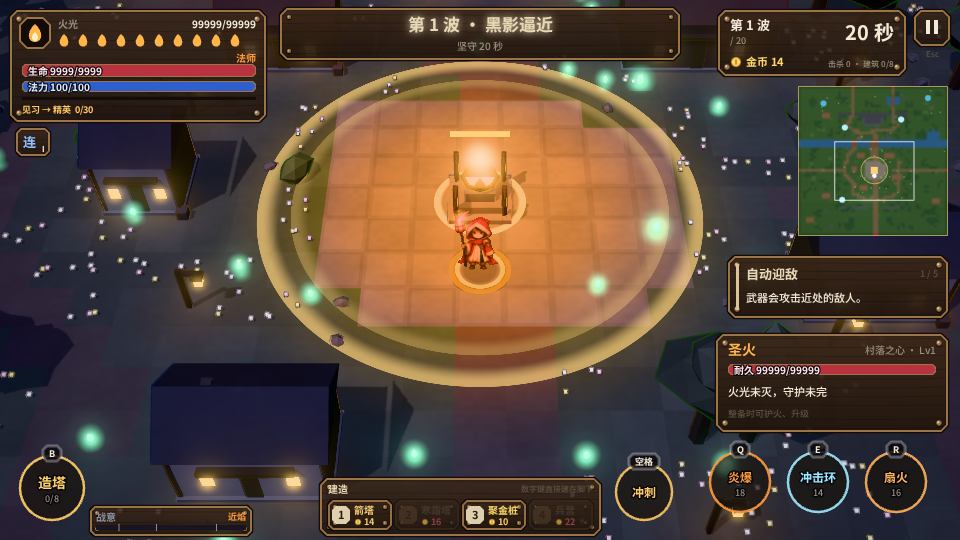
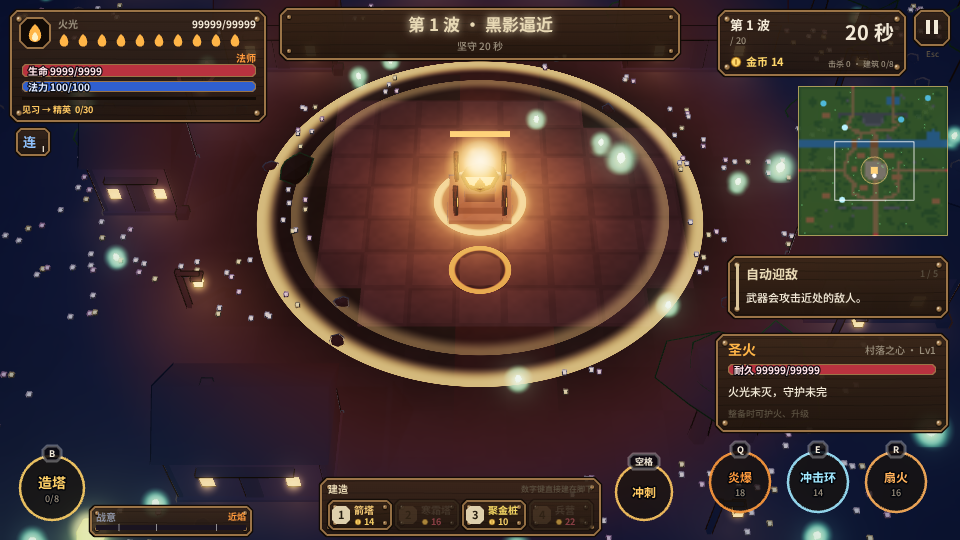
scene: flame is the key light, cool indigo ambient and fog
Exponential amber falloff from the sacred flame, low indigo hemisphere,
warm-near / indigo-far fog, ACES, and stronger cool silhouettes on enemy
sprites outside the circle. Still parameters and shaders only.

diff --git a/js/gl3d.js b/js/gl3d.js
@@ -168,7 +168,7 @@
     //   rim 冷色边缘光 · grad 顶点下暗上亮 · coreLight 圣火暖光圈 · night35 夜晚提亮到白天 35% 的备选预设
     // 默认开着的只有低风险三项：描边（本色压暗）、只给火焰 / 法术 / 敌眼的局部泛光、轻暗角。
     // 浏览器里加 ?art=all 全开，?art=toon,ao 只开其中几项（截图对照用）
-    ART: { aces: false, toon: false, noise: false, ao: false, nightFog: false, rim: false, grad: false, coreLight: false, night35: false },
+    ART: { aces: true, toon: false, noise: false, ao: false, nightFog: false, rim: false, grad: false, coreLight: false, night35: false },
     meshes: [], statics: [],
     // 每帧渲染前 / 后的回调（精灵图层在这里提交实例、清空计数）
     preRender: [], postRender: []
@@ -183,28 +183,39 @@
     uTime: { value: 0 }, uEmBoost: { value: 1 }, uGrade: { value: null }, uLineW: { value: 1.2 }, uLineWB: { value: 0.9 },
     uRim: { value: null }, uNoise: { value: 0.12 }, uCore: { value: null }, uCoreCol: { value: null },
     uFogLow: { value: null }, uEmHDR: { value: 2.2 }, uGradK: { value: 0 }, uFogPierce: { value: 0 },
-    // C1 色温过渡（参数在 RW.C1_LIGHT）：uBand = (inner, outer, 暖饱和, 冷饱和)，uGain = (暖明度, 冷明度)
-    uBand: { value: new THREE.Vector4(0.42, 1.32, 0.8, 0.2) }, uGain: { value: new THREE.Vector2(1.04, 0.64) },
-    uWarm: { value: new THREE.Vector3(1.48, 0.72, 0.36) }, uCool: { value: new THREE.Vector3(0.40, 0.48, 1.12) },
-    uWarmAdd: { value: 0.14 }, uChill: { value: 0 }
+    // C1（参数在 RW.C1_LIGHT）。uBand=(inner, outer, 圈内饱和, 圈外饱和)，uGain=(圈内明度, 圈外明度)
+    // uGreen=(圈内去柠绿, 圈外去柠绿)，uCool=圈外冷蓝（g 不高于 r），uWarmAdd=圣火强度，uFall=指数陡度
+    uBand: { value: new THREE.Vector4(0.2, 1.7, 1.12, 0.06) }, uGain: { value: new THREE.Vector2(0.74, 0.62) },
+    uCool: { value: new THREE.Vector3(0.46, 0.40, 1.06) }, uGreen: { value: new THREE.Vector2(0.78, 0.25) },
+    uWarmAdd: { value: 1.25 }, uFall: { value: 1.4 }, uChill: { value: 0 },
+    uFogWarm: { value: new THREE.Vector3(1.0, 0.45, 0.12) }, uFogK: { value: new THREE.Vector3(0.78, 1.05, 0.42) },
+    uEnemyGain: { value: 0.42 }
   };
-  // 固有色按离圣火的距离从暖色收到冷靛蓝。宽 smoothstep，不在半径上切一刀。
+  // 固有色随距离收向去饱和冷蓝。圈内只压暗并杀掉亮柠绿，留下更深的绿褐，饱和不降。宽 smoothstep。
   var C1_ALBEDO = [
     '{',
     '  float fgCd = length(vWp.xz - uCore.xy);',
     '  float fgR = max(uCore.z, 1.0);',
-    '  float fgT = uCore.z < 2.0 ? mix(0.35, 0.85, uChill) : smoothstep(fgR * uBand.x, fgR * uBand.y, fgCd);',
+    '  float fgT = uCore.z < 2.0 ? mix(0.2, 0.85, uChill) : smoothstep(fgR * uBand.x, fgR * uBand.y, fgCd);',
     '  float fgL = dot(diffuseColor.rgb, vec3(0.2126, 0.7152, 0.0722));',
-    '  diffuseColor.rgb = mix(vec3(fgL), diffuseColor.rgb, mix(uBand.z, uBand.w, fgT)) * mix(uWarm, uCool, fgT) * mix(uGain.x, uGain.y, fgT);',
+    '  vec3 fgB = diffuseColor.rgb;',
+    '  fgB.g = mix(fgB.g, min(fgB.g, fgB.r * 0.72 + fgL * 0.06), mix(uGreen.x, uGreen.y, fgT));',
+    '  vec3 fgIn = mix(vec3(fgL), fgB, mix(uBand.z, uBand.w, fgT));',
+    '  diffuseColor.rgb = mix(fgIn, fgL * uCool, fgT) * mix(uGain.x, uGain.y, fgT);',
+    '  if (uEnemy > 0.5) {',
+    '    float fgS = smoothstep(fgR * 0.45, fgR * 1.55, fgCd);',
+    '    float fgLe = dot(diffuseColor.rgb, vec3(0.2126, 0.7152, 0.0722));',
+    '    diffuseColor.rgb = mix(diffuseColor.rgb, fgLe * uCool * uEnemyGain, fgS);',
+    '  }',
     '}'
   ].join('\n');
-  // 同一条过渡带上的暖色补光（没有 6% 硬边）。ART.coreLight 的旧硬光圈仍走 uCore.w，默认关。
+  // 圣火主光：指数衰减，中心最暖，远处剩一条软尾巴，不在半径上切断。
   var C1_FILL = [
     '{',
-    '  float fgCd2 = length(vWp.xz - uCore.xy);',
+    '  float fgD = length(vWp.xz - uCore.xy);',
     '  float fgR2 = max(uCore.z, 1.0);',
-    '  float fgT2 = uCore.z < 2.0 ? 1.0 : smoothstep(fgR2 * uBand.x, fgR2 * uBand.y, fgCd2);',
-    '  reflectedLight.directDiffuse += diffuseColor.rgb * uCoreCol * uWarmAdd * (1.0 - fgT2);',
+    '  float fgE = uCore.z < 2.0 ? 0.0 : exp(-uFall * fgD / fgR2);',
+    '  reflectedLight.directDiffuse += diffuseColor.rgb * uCoreCol * uWarmAdd * fgE;',
     '}'
   ].join('\n');
   // 3 格渐变：暗面 / 中间调 / 亮面（最近邻采样，形成清楚的色阶）
@@ -222,7 +233,8 @@
   // sprite = true 是贴图立牌（精灵图）：没有顶点色和 aEm，颜色来自图集贴图；每实例 iFrame 选图集里的一格
   //   （iFrame = [u0, v0, u 宽（负数 = 水平镜像）, v 高]）；不加斑驳和顶点渐变，画好的画面不再叠笔触
   function fgInject(sh, water, sprite) {
-    ['uTime', 'uEmBoost', 'uRim', 'uNoise', 'uCore', 'uCoreCol', 'uFogLow', 'uEmHDR', 'uGradK', 'uFogPierce', 'uBand', 'uGain', 'uWarm', 'uCool', 'uWarmAdd', 'uChill'].forEach(function (k) { sh.uniforms[k] = U[k]; });
+    ['uTime', 'uEmBoost', 'uRim', 'uNoise', 'uCore', 'uCoreCol', 'uFogLow', 'uEmHDR', 'uGradK', 'uFogPierce', 'uBand', 'uGain', 'uCool', 'uGreen', 'uWarmAdd', 'uFall', 'uChill', 'uFogWarm', 'uFogK', 'uEnemyGain'].forEach(function (k) { sh.uniforms[k] = U[k]; });
+    sh.uniforms.uEnemy = { value: sprite === 'enemy' ? 1.0 : 0.0 };
     sh.vertexShader = sh.vertexShader
       .replace('#include <common>', '#include <common>\n' + (sprite ? 'attribute vec4 iFrame;\n' : 'attribute float aEm;\n') + 'varying float vEm;\nvarying float vFlash;\nvarying vec3 vWp;\nvarying float vGrad;\nuniform float uTime;\nuniform float uGradK;\n#ifdef USE_INSTANCING\nattribute float iFlash;\n#endif')
       .replace('#include <begin_vertex>', '#include <begin_vertex>\n' + (sprite ? 'vEm = 0.0;\nvGrad = 1.0;\n' : 'vEm = aEm;\n' +
@@ -233,7 +245,7 @@
       .replace('#include <worldpos_vertex>', '#include <worldpos_vertex>\nvec4 fgW = vec4(transformed, 1.0);\n#ifdef USE_INSTANCING\nfgW = instanceMatrix * fgW;\n#endif\nvWp = (modelMatrix * fgW).xyz;');
     if (sprite) sh.vertexShader = sh.vertexShader.replace('#include <uv_vertex>', '#include <uv_vertex>\n#ifdef USE_MAP\nvMapUv = vec2(iFrame.x + uv.x * iFrame.z, iFrame.y + uv.y * iFrame.w);\n#endif');
     sh.fragmentShader = sh.fragmentShader
-      .replace('#include <common>', '#include <common>\nvarying float vEm;\nvarying float vFlash;\nvarying vec3 vWp;\nvarying float vGrad;\nuniform float uTime;\nuniform float uEmBoost;\nuniform vec4 uRim;\nuniform float uNoise;\nuniform vec4 uCore;\nuniform vec3 uCoreCol;\nuniform vec4 uFogLow;\nuniform float uEmHDR;\nuniform float uFogPierce;\nuniform vec4 uBand;\nuniform vec2 uGain;\nuniform vec3 uWarm;\nuniform vec3 uCool;\nuniform float uWarmAdd;\nuniform float uChill;\n' + NOISE_GLSL)
+      .replace('#include <common>', '#include <common>\nvarying float vEm;\nvarying float vFlash;\nvarying vec3 vWp;\nvarying float vGrad;\nuniform float uTime;\nuniform float uEmBoost;\nuniform vec4 uRim;\nuniform float uNoise;\nuniform vec4 uCore;\nuniform vec3 uCoreCol;\nuniform vec4 uFogLow;\nuniform float uEmHDR;\nuniform float uFogPierce;\nuniform vec4 uBand;\nuniform vec2 uGain;\nuniform vec3 uCool;\nuniform vec2 uGreen;\nuniform float uWarmAdd;\nuniform float uFall;\nuniform float uChill;\nuniform vec3 uFogWarm;\nuniform vec3 uFogK;\nuniform float uEnemy;\nuniform float uEnemyGain;\n' + NOISE_GLSL)
       .replace('#include <lights_fragment_end>', '#include <lights_fragment_end>\n' +
         // 圣火暖光圈：圈内是暖光，边缘在最后 6% 半径内收掉，圈外全交给冷色环境光
         '{ float cd = length(vWp.xz - uCore.xy);\n  float cm = uCore.w * (1.0 - smoothstep(uCore.z * 0.94, uCore.z, cd)) * (0.55 + 0.45 * (1.0 - cd / max(uCore.z, 1.0)));\n  reflectedLight.directDiffuse += diffuseColor.rgb * uCoreCol * cm; }\n' +
@@ -246,8 +258,11 @@
         '#ifdef USE_FOG',
         '  float fgF = smoothstep(fogNear, fogFar, vFogDepth);',
         '  float fgLow = uFogLow.x * (1.0 - smoothstep(0.0, uFogLow.y, vWp.y)) * smoothstep(uFogLow.z, uFogLow.w, length(vWp.xz - uCore.xy));',
-        '  fgF = clamp(fgF + fgLow, 0.0, 1.0) * (1.0 - uFogPierce * clamp(vEm * 1.6, 0.0, 0.92));',
-        '  gl_FragColor.rgb = mix(gl_FragColor.rgb, fogColor, fgF);',
+        '  float fgRd = max(uCore.z, 1.0);',
+        '  float fgOut = uCore.z < 2.0 ? uChill : smoothstep(fgRd * uFogK.x, fgRd * (uFogK.x + uFogK.y), length(vWp.xz - uCore.xy));',
+        '  vec3 fgFog = mix(uFogWarm, fogColor, fgOut);',
+        '  fgF = clamp(fgF * mix(0.28, 1.0, fgOut) + fgLow + fgOut * uFogK.z, 0.0, 0.9) * (1.0 - uFogPierce * clamp(vEm * 1.6, 0.0, 0.92));',
+        '  gl_FragColor.rgb = mix(gl_FragColor.rgb, fgFog, fgF);',
         '#endif'
       ].join('\n'));
     if (sprite) {
@@ -284,9 +299,10 @@
     tex.colorSpace = THREE.SRGBColorSpace;
     return tex;
   };
-  GL.spriteMaterial = function (tex) {
+  // enemy：敌人立牌。圈外再收成冷色剪影；英雄和盾卫不走这一档。
+  GL.spriteMaterial = function (tex, enemy) {
     var m = new THREE.MeshLambertMaterial({ map: tex, alphaTest: 0.5, transparent: false, side: THREE.DoubleSide });
-    m.onBeforeCompile = function (sh) { fgInject(sh, false, true); };
+    m.onBeforeCompile = function (sh) { fgInject(sh, false, enemy ? 'enemy' : true); };
     return m;
   };
   // 描边：背面外壳，沿平滑法线外扩（外扩量随离镜头距离变化，屏幕上粗细基本一致）
@@ -409,7 +425,7 @@
     tmpC = new THREE.Color();
     r.setPixelRatio(1);   // 画布尺寸由 platform.js 按设备像素比设置好了
     r.outputColorSpace = THREE.SRGBColorSpace;
-    r.toneMapping = THREE.NeutralToneMapping; r.toneMappingExposure = 1.0;   // 默认沿用原版；ART.aces 打开时换 ACES
+    r.toneMapping = THREE.ACESFilmicToneMapping; r.toneMappingExposure = 1.06;
     r.shadowMap.enabled = true; r.shadowMap.type = THREE.PCFShadowMap;   // r18x 起 PCFSoftShadowMap 已移除（会报警告），PCFShadowMap 本身已是柔化过滤
     var sc = GL.scene = new THREE.Scene();
     sc.fog = new THREE.Fog(0x7a5f80, 1300, 3000);
@@ -451,17 +467,29 @@
     comp.addPass(GL.bloomPass);
     U.uGrade.value = new THREE.Vector4(1, 1, 0, 0);
     GL.gradePass = new THREE.ShaderPass({
-      uniforms: { tDiffuse: { value: null }, uGrade: U.uGrade, uVig: { value: 0.22 } },
+      uniforms: {
+        tDiffuse: { value: null }, uGrade: U.uGrade, uVig: { value: 0.22 },
+        uSplit: { value: new THREE.Vector2(0.62, 0.4) },
+        uShad: { value: new THREE.Vector3(0.10, 0.08, 0.26) },
+        uHigh: { value: new THREE.Vector3(1.12, 0.58, 0.16) }
+      },
       vertexShader: 'varying vec2 vUv; void main(){ vUv = uv; gl_Position = projectionMatrix * modelViewMatrix * vec4(position, 1.0); }',
       fragmentShader: [
         'uniform sampler2D tDiffuse; uniform vec4 uGrade; uniform float uVig; varying vec2 vUv;',
+        'uniform vec2 uSplit; uniform vec3 uShad; uniform vec3 uHigh;',
         'void main(){',
         '  vec4 c = texture2D(tDiffuse, vUv);',
         '  float l = dot(c.rgb, vec3(0.2126, 0.7152, 0.0722));',
         '  c.rgb = mix(vec3(l), c.rgb, uGrade.x);',
-        '  c.rgb = max(vec3(0.0), (c.rgb - 0.18) * uGrade.y + 0.18 + uGrade.w);',   // 以中灰为支点做对比度
+        '  c.rgb = max(vec3(0.0), (c.rgb - 0.18) * uGrade.y + 0.18 + uGrade.w);',
+        '  float sh = 1.0 - smoothstep(0.03, 0.46, l);',
+        '  float hi = smoothstep(0.4, 0.9, l);',
+        '  vec3 shCol = mix(c.rgb, uShad * max(l, 0.015), 0.9);',
+        '  shCol.g = min(shCol.g, shCol.r * 0.9);',
+        '  c.rgb = mix(c.rgb, shCol, sh * uSplit.x);',
+        '  c.rgb = mix(c.rgb, c.rgb * uHigh, hi * uSplit.y);',
         '  vec2 vd = (vUv - 0.5) * vec2(1.0, 0.78);',
-        '  c.rgb *= 1.0 - uVig * smoothstep(0.28, 0.62, length(vd));',   // 轻微暗角，把视线收向画面中间
+        '  c.rgb *= 1.0 - uVig * smoothstep(0.28, 0.62, length(vd));',
         '  gl_FragColor = c;',
         '}'
       ].join('\n')
@@ -693,16 +721,31 @@
     U.uRim.value.set(rim[0], rim[1], rim[2], A.rim ? rim[3] : 0);
     var cl = env.coreLight;
     if (cl) U.uCore.value.set(cl.x, cl.z, cl.r, A.coreLight ? cl.k : 0); else U.uCore.value.w = 0;
-    // C1：按 chill 在白天端和夜晚端之间混合。参数只写在 RW.C1_LIGHT。
+    // C1：圣火指数主光、圈外冷蓝、近暖远靛的雾。参数只写在 RW.C1_LIGHT。chill 0 白天 … 1 夜晚。
     var C1 = RW.C1_LIGHT, ck = env.chill || 0;
     if (C1) {
-      var dC = C1.day, nC = C1.night, wC = C1.warm;
-      U.uBand.value.set(C1.inner, C1.outer, wC.sat, dC.sat + (nC.sat - dC.sat) * ck);
-      U.uGain.value.set(wC.gain, dC.gain + (nC.gain - dC.gain) * ck);
-      U.uWarm.value.set(wC.tint[0], wC.tint[1], wC.tint[2]);
-      U.uCool.value.set(dC.tint[0] + (nC.tint[0] - dC.tint[0]) * ck, dC.tint[1] + (nC.tint[1] - dC.tint[1]) * ck, dC.tint[2] + (nC.tint[2] - dC.tint[2]) * ck);
-      U.uWarmAdd.value = dC.add + (nC.add - dC.add) * ck;
+      var al = C1.albedo, fl = C1.flame, fg = C1.fog, gr = C1.grade;
+      function c1l(a) { return a[0] + (a[1] - a[0]) * ck; }
+      U.uBand.value.set(C1.band.inner, C1.band.outer, al.inSat, al.outSat);
+      U.uGain.value.set(al.inGain, c1l(al.outGain));
+      U.uGreen.value.set(al.greenKill[0], al.greenKill[1]);
+      U.uCool.value.set(C1.cool[0], C1.cool[1], C1.cool[2]);
+      U.uFall.value = fl.fall;
+      U.uWarmAdd.value = c1l(fl.gain);
       U.uChill.value = ck;
+      U.uEnemyGain.value = C1.enemy.gain;
+      U.uCoreCol.value.setRGB(fl.color[0], fl.color[1], fl.color[2], THREE.SRGBColorSpace);
+      var fw = fg.warm;
+      tmpC.setRGB(fw[0], fw[1], fw[2], THREE.SRGBColorSpace);
+      U.uFogWarm.value.set(tmpC.r, tmpC.g, tmpC.b);
+      U.uFogK.value.set(fg.start, fg.thick, c1l(fg.amount));
+      var gp = GL.gradePass.uniforms;
+      gp.uSplit.value.set(gr.shadow, gr.high);
+      gp.uShad.value.set(gr.shad[0], gr.shad[1], gr.shad[2]);
+      gp.uHigh.value.set(gr.highCol[0], gr.highCol[1], gr.highCol[2]);
+      GL.renderer.toneMappingExposure = C1.exposure;
+      GL.bloomPass.threshold = C1.bloom.thr;
+      GL.bloomPass.radius = C1.bloom.radius;
     }
     // 低矮冷雾从光圈边缘往外 fogLow[2] 距离内渐浓
     var fl = env.fogLow || [0, 40, 360], r0 = cl ? cl.r : 600;
@@ -713,7 +756,9 @@
     GL.gradePass.uniforms.uVig.value = env.vig == null ? 0.22 : env.vig;
     // 泛光：阈值固定在 HDR 1.05，普通受光表面不发光，只有自发光和法术光效会晕开
     GL.bloomPass.enabled = GL.fx.bloom;
-    GL.bloomPass.strength = Math.min(0.9, (env.bloom || 0) * 0.9); GL.bloomPass.threshold = GL.BLOOM_THR; GL.bloomPass.radius = 0.45;
+    var bloomAdd = (C1 && C1.bloom) ? C1.bloom.add : 0;
+    GL.bloomPass.strength = Math.min(0.55, (env.bloom || 0) * 0.4 + bloomAdd);
+    if (!(C1 && C1.bloom)) { GL.bloomPass.threshold = GL.BLOOM_THR; GL.bloomPass.radius = 0.45; }
     commitInstances();
     commitFx(GL.fxAlphaMesh); commitFx(GL.fxAddMesh);
     var i;

diff --git a/js/world3d.js b/js/world3d.js
@@ -526,20 +526,20 @@
     // rim = 冷色边缘光 [r, g, b, 强度]；fogLow = 光圈外低矮冷雾 [浓度, 高度, 从光圈边缘到最浓的距离]；vig = 暗角；
     // amb = 环境与主光亮度倍率；chill = C1 冷暖混合（0 白天端，1 夜晚端，见 RW.C1_LIGHT）；a35 = 夜晚提亮到白天 35% 的备选颜色
     var P = {
-      day: { light: [-0.45, 0.82, 0.36], sun: hex('#ffe4c0'), sky: shade(hex('#8eabcc'), 0.5), ground: shade(hex('#3d4a62'), 0.55), fog: hex('#7d94b0'), clear: hex('#6d86a6'), fogNear: 1050, fogFar: 2500, em: 1.0, lamp: 0.15,
-        grade: [0.94, 1.04, 0.1, -0.012], shadowDark: 0.42, line: hex('#2a2230'), bloom: 0.35, thr: 0.9,
-        rim: [0.37, 0.66, 0.78, 0.12], fogLow: [0, 40, 360], vig: 0.22, amb: 0.86, chill: 0 },
-      dusk: { light: [-0.7, 0.55, 0.3], sun: shade(hex('#ffae6a'), 0.95), sky: shade(hex('#6a6890'), 0.48), ground: shade(hex('#3a3548'), 0.5), fog: hex('#5a6078'), clear: hex('#3e455c'), fogNear: 980, fogFar: 2300, em: 1.2, lamp: 0.6,
-        grade: [0.9, 1.05, 0.16, -0.012], shadowDark: 0.4, line: hex('#24162a'), bloom: 0.6, thr: 0.78,
-        rim: [0.45, 0.6, 0.85, 0.2], fogLow: [0.25, 36, 420], vig: 0.24, amb: 0.82, chill: 0.45 },
-      night: { light: [-0.35, 0.8, 0.45], sun: shade(hex('#7a92d8'), 0.34), sky: shade(hex('#243860'), 0.5), ground: shade(hex('#121624'), 0.45), fog: hex('#141c32'), clear: hex('#0c1424'), fogNear: 900, fogFar: 2100, em: 1.5, lamp: 1.0,
-        grade: [0.8, 1.08, 0.2, -0.02], shadowDark: 0.5, line: hex('#0a0c16'), bloom: 0.95, thr: 0.62,
-        rim: [0.37, 0.66, 0.78, 0.32], fogLow: [0.55, 34, 380], vig: 0.32, amb: 0.78, chill: 1,
+      day: { light: [-0.45, 0.82, 0.36], sun: shade(hex('#a8c0e8'), 0.38), sky: shade(hex('#9ec0ff'), 0.4), ground: shade(hex('#161432'), 0.6), fog: hex('#3a4e84'), clear: hex('#4a6298'), fogNear: 1700, fogFar: 2700, em: 1.0, lamp: 0.15,
+        grade: [1.02, 1.04, 0.06, 0.0], shadowDark: 0.28, line: hex('#1a1830'), bloom: 0.35, thr: 0.9,
+        rim: [0.37, 0.66, 0.78, 0.12], fogLow: [0, 40, 360], vig: 0.18, amb: 0.46, chill: 0 },
+      dusk: { light: [-0.7, 0.55, 0.3], sun: shade(hex('#8aa0d0'), 0.32), sky: shade(hex('#6070b0'), 0.38), ground: shade(hex('#141228'), 0.55), fog: hex('#2a3868'), clear: hex('#323e6c'), fogNear: 1500, fogFar: 2400, em: 1.2, lamp: 0.6,
+        grade: [0.98, 1.05, 0.1, -0.01], shadowDark: 0.26, line: hex('#161428'), bloom: 0.6, thr: 0.78,
+        rim: [0.45, 0.6, 0.85, 0.2], fogLow: [0.25, 36, 420], vig: 0.22, amb: 0.34, chill: 0.45 },
+      night: { light: [-0.35, 0.8, 0.45], sun: shade(hex('#6880c0'), 0.26), sky: shade(hex('#3a58a0'), 0.32), ground: shade(hex('#100e22'), 0.5), fog: hex('#1c2a56'), clear: hex('#10162c'), fogNear: 1300, fogFar: 2100, em: 1.5, lamp: 1.0,
+        grade: [0.92, 1.06, 0.12, -0.01], shadowDark: 0.22, line: hex('#0c0e18'), bloom: 0.95, thr: 0.62,
+        rim: [0.37, 0.66, 0.78, 0.32], fogLow: [0.55, 34, 380], vig: 0.28, amb: 0.24, chill: 1,
         // 备选（GL.ART.night35）：夜晚光圈外亮度约为白天 35% 的提亮版
         a35: { sun: shade(hex('#8aa4ff'), 0.72), sky: shade(hex('#5a74b8'), 0.8), ground: shade(hex('#2a2c48'), 0.6), fog: hex('#34497a'), clear: hex('#141e36') } },
-      boss: { light: [-0.5, 0.7, 0.4], sun: shade(hex('#ff9a7a'), 0.7), sky: shade(hex('#5a3058'), 0.5), ground: shade(hex('#241820'), 0.45), fog: hex('#2a1828'), clear: hex('#160c16'), fogNear: 980, fogFar: 2200, em: 1.4, lamp: 0.9,
-        grade: [0.9, 1.08, 0.22, -0.01], shadowDark: 0.45, line: hex('#12060a'), bloom: 0.85, thr: 0.66,
-        rim: [0.55, 0.35, 0.75, 0.3], fogLow: [0.5, 34, 380], vig: 0.3, amb: 0.85, chill: 0.72,
+      boss: { light: [-0.5, 0.7, 0.4], sun: shade(hex('#8090c8'), 0.3), sky: shade(hex('#503868'), 0.4), ground: shade(hex('#1a1020'), 0.5), fog: hex('#2a2048'), clear: hex('#1a1430'), fogNear: 1400, fogFar: 2200, em: 1.4, lamp: 0.9,
+        grade: [0.96, 1.06, 0.12, -0.008], shadowDark: 0.24, line: hex('#12060a'), bloom: 0.85, thr: 0.66,
+        rim: [0.55, 0.35, 0.75, 0.3], fogLow: [0.5, 34, 380], vig: 0.26, amb: 0.3, chill: 0.72,
         a35: { sun: shade(hex('#ff9a7a'), 0.7), sky: shade(hex('#7a4070'), 0.8), ground: shade(hex('#3a1c28'), 0.6), fog: hex('#4a2038'), clear: hex('#200a14'), amb: 1 } }
     };
     var e = P[kind];

diff --git a/js/data.js b/js/data.js
@@ -372,19 +372,24 @@
     skyRange: 99999,
     dim: 0.32
   };
-  // C1「光即是色」（概念 mj_style_C1.png）。场景冷暖只调这一处：圈内橙金 / 琥珀，圈外冷靛蓝，宽而软的过渡。
-  // inner / outer 是圣域半径的倍数：inner 以内全暖，outer 以外全冷，中间 smoothstep，没有硬边。
-  // tint 乘在部分去饱和后的固有色上（线性空间）。sat：1 保留原饱和，0 变成灰。gain：明度。
-  // add：同一条过渡带上额外的暖色照明，夜里更强。昼夜预设的 chill（0 白天 … 1 夜晚）在两端之间混合。
-  // veil：圣域外旧的黑色压暗叠层，改得很淡，避免再切出一圈硬边；冷暖本身在着色器里。
-  // 地形、房屋、树和手绘精灵走同一条着色器（js/gl3d.js）。不改玩法数值。
+  // C1「光即是色」。冷暖只调这一处，着色器在 js/gl3d.js。不改玩法、镜头、视野。
+  // 圣火是唯一主光：约 2300K 琥珀（sRGB），按距离做指数衰减，没有光锥硬边。
+  // 环境光压得很低，只留阴影层次，颜色是约 10000K 的靛蓝（绿通道不高于红）。
+  // band：固有色从「圈内更深的绿褐、饱和」收到「圈外近乎单色的冷蓝」。inner/outer 是圣域半径的倍数，smoothstep，很宽。
+  // greenKill：圈内把过亮的绿草收到褐绿。fog 在圈边才开始变浓，近火是暖雾，远处是深靛蓝。
+  // enemy：圈外的敌人立牌再压暗、去饱和。bloom 用已经在跑的泛光通道，阈值放低、强度很小，只晕开火。
+  // veil：旧的圣域黑盘，关掉，避免再切出一圈硬边。
   RW.C1_LIGHT = {
-    inner: 0.42,
-    outer: 1.32,
-    warm: { tint: [1.48, 0.72, 0.36], sat: 0.8, gain: 1.04 },
-    day:   { tint: [0.40, 0.48, 1.12], sat: 0.2, gain: 0.64, add: 0.14 },
-    night: { tint: [0.28, 0.36, 1.02], sat: 0.12, gain: 0.40, add: 0.40 },
-    veil: 0.04
+    flame: { color: [1.0, 0.545, 0.165], fall: 1.4, gain: [1.25, 1.85] },
+    band: { inner: 0.2, outer: 1.7 },
+    albedo: { inSat: 1.12, outSat: 0.06, inGain: 0.74, outGain: [0.62, 0.46], greenKill: [0.78, 0.25] },
+    cool: [0.46, 0.40, 1.06],
+    fog: { warm: [1.0, 0.50, 0.16], start: 0.78, thick: 1.05, amount: [0.42, 0.58] },
+    grade: { shadow: 0.62, high: 0.4, shad: [0.10, 0.08, 0.26], highCol: [1.12, 0.58, 0.16] },
+    enemy: { gain: 0.42 },
+    bloom: { thr: 0.64, radius: 0.62, add: 0.1 },
+    exposure: 1.06,
+    veil: 0
   };
   RW.SANCTUARY.dim = RW.C1_LIGHT.veil;
   // 圣火每升一级，王旗自动往外插一站（各地图的王旗位置写在 js/map.js 的 fronts 里，切图时换成当前图的）。

diff --git a/js/sprites.js b/js/sprites.js
@@ -56,7 +56,7 @@
       S.atkTotal = 0;
       for (var i = 0; i < M.fps.attack.length; i++) S.atkTotal += M.fps.attack[i];
       S.tex = GL.spriteTexture(SPR.base + name + '/' + M.image, function (t) { S.ok = !!t; }, SPR.nearest);
-      S.mat = GL.spriteMaterial(S.tex);
+      S.mat = GL.spriteMaterial(S.tex, name === 'grunt' || name === 'elite' || name === 'boss');
       var im = new THREE.InstancedMesh(geo, S.mat, CAP);
       im.instanceMatrix.setUsage(THREE.DynamicDrawUsage);
       im.instanceColor = new THREE.InstancedBufferAttribute(new Float32Array(CAP * 3), 3);
